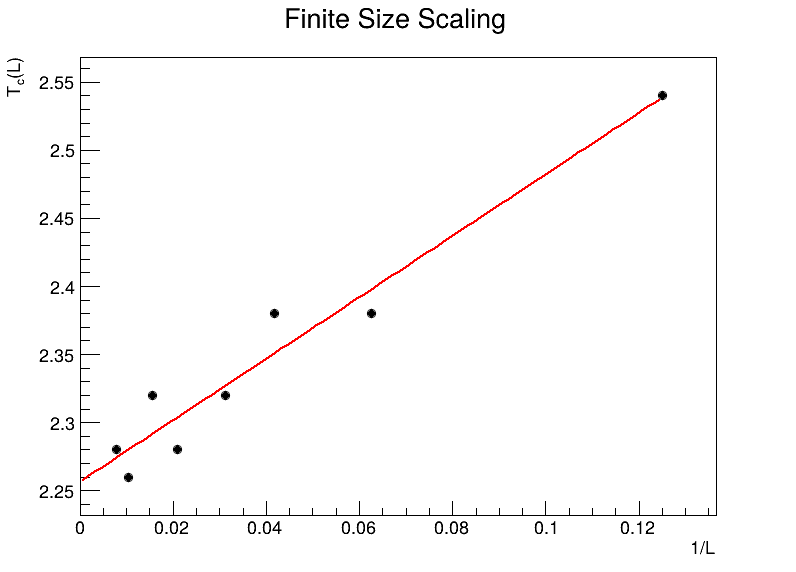
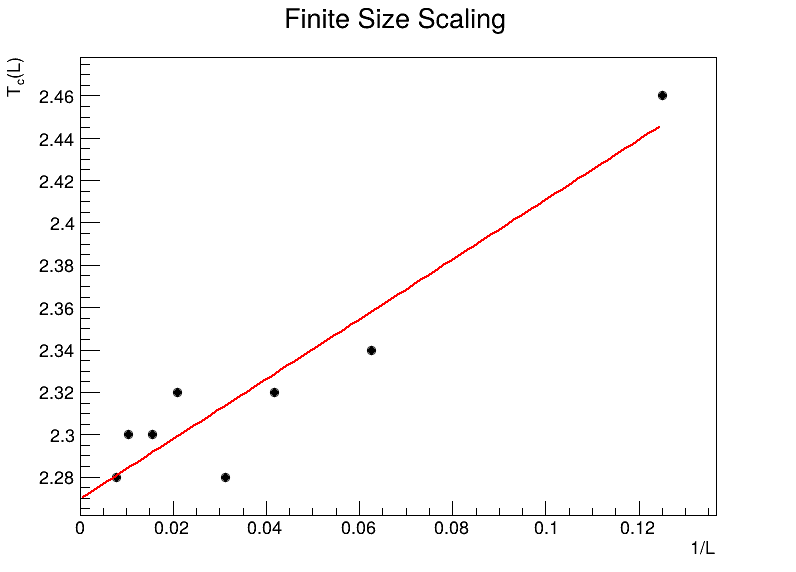
inserimento ising plotter  e modifica main

diff --git a/main.cpp b/main.cpp
@@ -1,4 +1,3 @@
-#include "IsingSim.hpp"
 #include <cstdlib>
 #include <iomanip>
 #include <iostream>
@@ -7,25 +6,17 @@
 
 #include "IsingSim.hpp"
 #include "Analyzer.hpp"
-
-// librerie ROOT
-#include <TAxis.h>
-#include <TCanvas.h>
-#include <TGraph.h>
-#include <TROOT.h>
-#include <TStyle.h>
+#include "IsingPlotter.hpp"
 
 using namespace std;
 
 int main(int argc, char **argv) {
   // Crea la cartella per i plot se non esiste
   system("mkdir -p plots");
-
-  // La modalità batch fa sì che il programma esegua le operazioni grafiche in
-  // "background", senza aprire alcuna finestra
-  ROOT::GetROOT()->SetBatch(kTRUE);
-
+  IsingPlotter::setupGlobalStyle();
+  
   Analyzer analyzer;
+  IsingPlotter plotter;
 
   // Parametri della simulazione
   std::vector<int> lattice_sizes = {8,16,24,32,48,64,96,128};              // Dimensioni del reticolo (L x L)
@@ -96,81 +87,7 @@ int main(int argc, char **argv) {
      << " s\n"
      << endl;
 
-
-
-    // ------- INIZIO PLOTTING CON ROOT -------
-
-    // Stile generale
-    gStyle->SetTitleFont(42, "XYZ");
-    gStyle->SetTitleFont(42, "T");
-    gStyle->SetOptStat(0);
-
-    // Canvas divisa in 4 pannelli (2x2)
-    TCanvas *c1 = new TCanvas("c1", "Risultati Ising 2D", 1200, 1000);
-    c1->Divide(2, 2);
-
-    // 1. Magnetizzazione
-    TGraph *gr_M = new TGraph(T_vals.size(), &T_vals[0], &M_vals[0]);
-    gr_M->SetTitle(
-      "Magnetizzazione Media assoluta per spin; Temperatura T; <|M|>");
-    gr_M->SetMarkerStyle(20);
-    gr_M->SetMarkerSize(0.6);
-    gr_M->SetMarkerColor(kBlue);
-    gr_M->SetLineColor(kBlue);
-
-    // 2. Energia
-    TGraph *gr_E = new TGraph(T_vals.size(), &T_vals[0], &E_vals[0]);
-    gr_E->SetTitle("Energia Media per spin; Temperatura T; <E>");
-    gr_E->SetMarkerStyle(20);
-    gr_E->SetMarkerSize(0.6);
-    gr_E->SetMarkerColor(kRed);
-    gr_E->SetLineColor(kRed);
-
-    // 3. Calore Specifico
-    TGraph *gr_Cv = new TGraph(T_vals.size(), &T_vals[0], &Cv_vals[0]);
-    gr_Cv->SetTitle("Calore Specifico per spin; Temperatura T; C_{v}");
-    gr_Cv->SetMarkerStyle(20);
-    gr_Cv->SetMarkerSize(0.6);
-    gr_Cv->SetMarkerColor(kGreen + 2);
-    gr_Cv->SetLineColor(kGreen + 2);
-
-    // 4. Suscettività
-    TGraph *gr_Chi = new TGraph(T_vals.size(), &T_vals[0], &Chi_vals[0]);
-    gr_Chi->SetTitle("Suscettivita' Magnetica per spin; Temperatura T; #chi");
-    gr_Chi->SetMarkerStyle(20);
-    gr_Chi->SetMarkerSize(0.6);
-    gr_Chi->SetMarkerColor(kMagenta);
-    gr_Chi->SetLineColor(kMagenta);
-
-    // Disegniamo nei pad
-    c1->cd(1);
-    gr_M->Draw("APL"); // A=Axes, P=Points, L=Line
-
-    c1->cd(2);
-    gr_E->Draw("APL");
-
-    c1->cd(3);
-    gr_Cv->Draw("APL");
-
-    c1->cd(4);
-    gr_Chi->Draw("APL");
-
-    // Salviamo in formato PDF e PNG
-    std::string png = "plots/Ising_L" + std::to_string(L) + ".png";
-
-    
-    c1->SaveAs(png.c_str());
-
-    cout << "\nSimulazione per L=" << L << " completata." << endl;
-    cout << "I grafici sono stati salvati nella cartella 'plots'." << endl;
-
-  // Pulizia memoria ROOT
-  delete gr_M;
-  delete gr_E;
-  delete gr_Cv;
-  delete gr_Chi;
-  delete c1;
-
+     plotter.plotAndSave(L, T_vals, E_vals, M_vals, Cv_vals, Chi_vals);
   }
 
   analyzer.finiteSizeScaling();

diff --git a/IsingPlotter.hpp b/IsingPlotter.hpp
@@ -1,0 +1,72 @@
+#pragma once
+#include <string>
+#include <vector>
+
+#include <TAxis.h>
+#include <TCanvas.h>
+#include <TGraph.h>
+#include <TROOT.h>
+#include <TStyle.h>
+
+class IsingPlotter {
+public:
+  IsingPlotter() = default;
+
+  // Configura stile globale ROOT (va chiamato una volta sola, tipicamente nel main)
+  static inline void setupGlobalStyle() {
+    ROOT::GetROOT()->SetBatch(kTRUE);
+    gStyle->SetTitleFont(42, "XYZ");
+    gStyle->SetTitleFont(42, "T");
+    gStyle->SetOptStat(0);
+  }
+
+  // Crea, disegna e salva i 4 pannelli per una data dimensione L
+  inline void plotAndSave(int L,
+                          const std::vector<double>& T_vals,
+                          const std::vector<double>& E_vals,
+                          const std::vector<double>& M_vals,
+                          const std::vector<double>& Cv_vals,
+                          const std::vector<double>& Chi_vals,
+                          const std::string& outputDir = "plots") {
+    TCanvas c1("c1", "Risultati Ising 2D", 1200, 1000);
+    c1.Divide(2, 2);
+
+    TGraph* gr_M = makeGraph(T_vals, M_vals,
+        "Magnetizzazione Media assoluta per spin; Temperatura T; <|M|>", kBlue);
+    TGraph* gr_E = makeGraph(T_vals, E_vals,
+        "Energia Media per spin; Temperatura T; <E>", kRed);
+    TGraph* gr_Cv = makeGraph(T_vals, Cv_vals,
+        "Calore Specifico per spin; Temperatura T; C_{v}", kGreen + 2);
+    TGraph* gr_Chi = makeGraph(T_vals, Chi_vals,
+        "Suscettivita' Magnetica per spin; Temperatura T; #chi", kMagenta);
+
+    c1.cd(1); gr_M->Draw("APL");
+    c1.cd(2); gr_E->Draw("APL");
+    c1.cd(3); gr_Cv->Draw("APL");
+    c1.cd(4); gr_Chi->Draw("APL");
+
+    std::string png = outputDir + "/Ising_L" + std::to_string(L) + ".png";
+    c1.SaveAs(png.c_str());
+
+    delete gr_M;
+    delete gr_E;
+    delete gr_Cv;
+    delete gr_Chi;
+    // c1 è locale (stack), viene distrutta automaticamente
+  }
+
+private:
+  // Helper privato per non ripetere lo styling 4 volte
+  static inline TGraph* makeGraph(const std::vector<double>& x,
+                                   const std::vector<double>& y,
+                                   const char* title,
+                                   int color) {
+    TGraph* gr = new TGraph(x.size(), x.data(), y.data());
+    gr->SetTitle(title);
+    gr->SetMarkerStyle(20);
+    gr->SetMarkerSize(0.6);
+    gr->SetMarkerColor(color);
+    gr->SetLineColor(color);
+    return gr;
+  }
+};